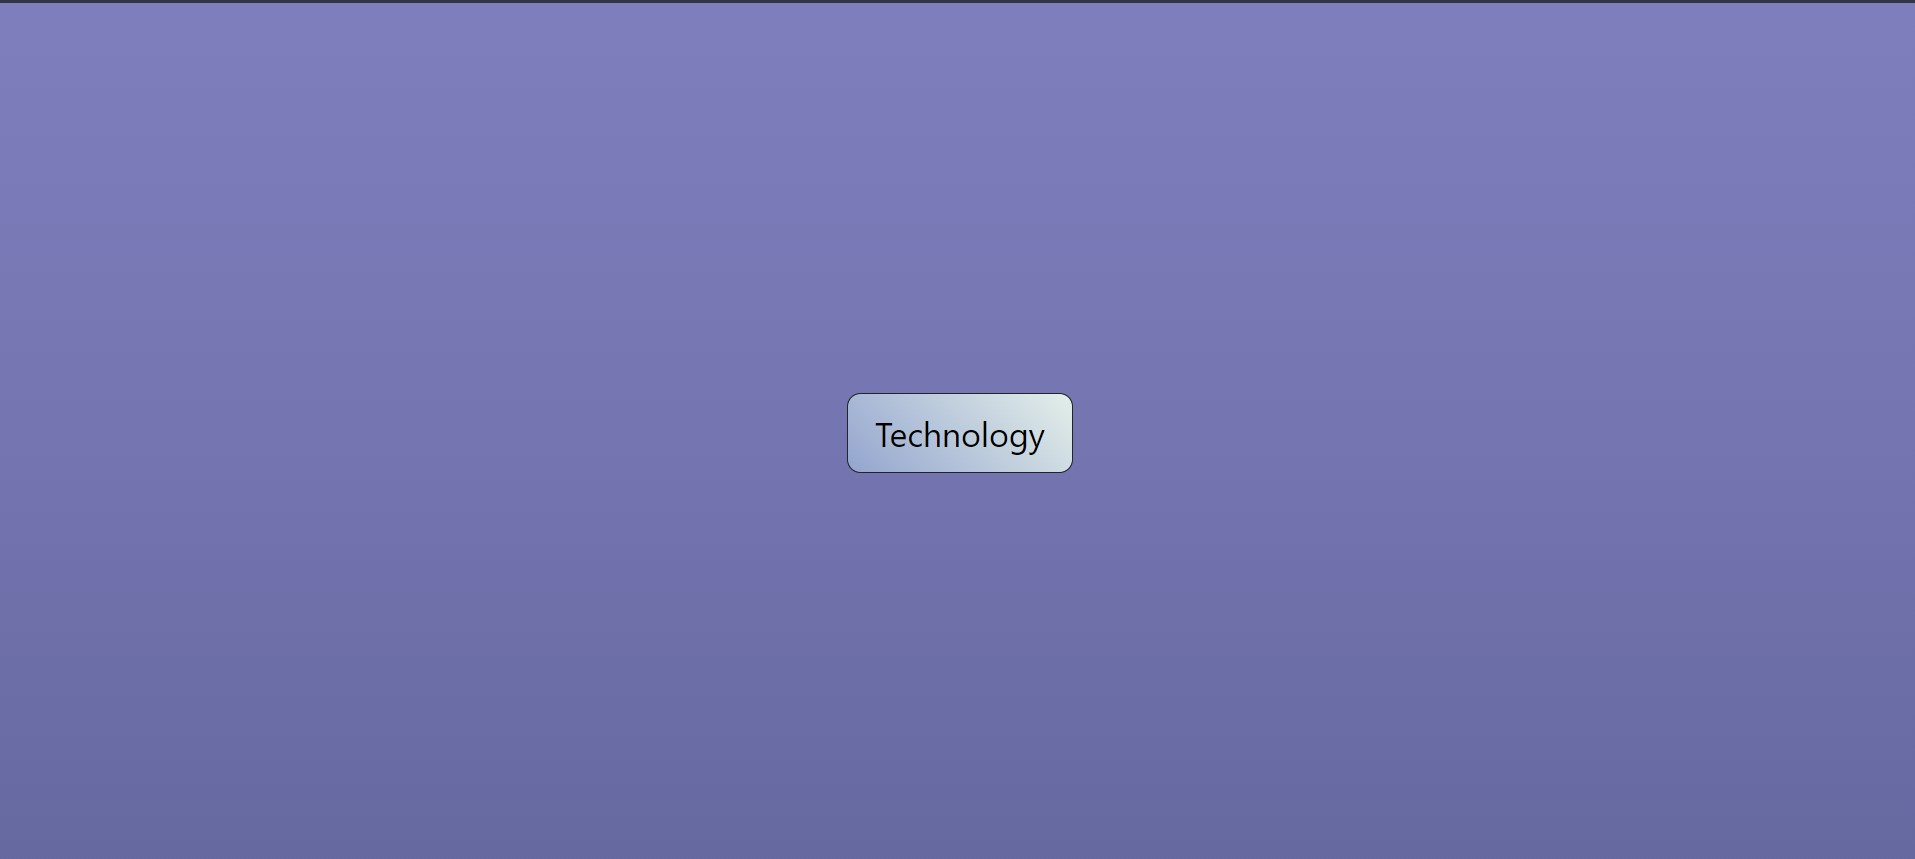
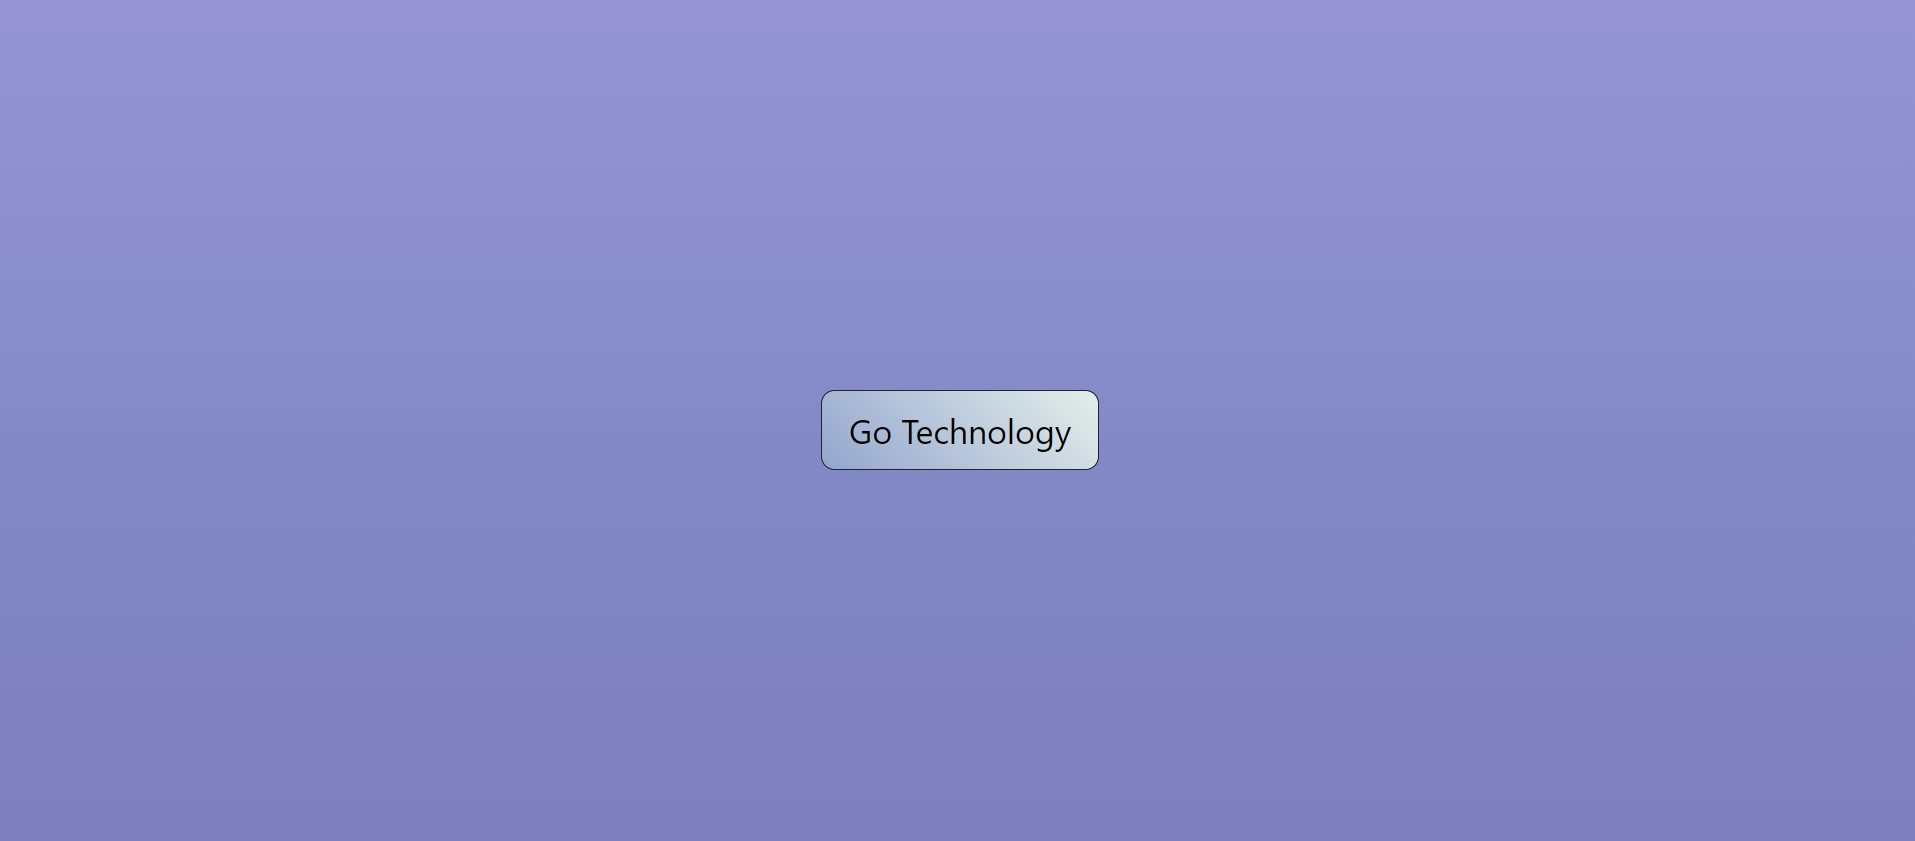
Massive Retouching

diff --git a/templates/techfeed-all.html b/templates/techfeed-all.html
@@ -15,12 +15,8 @@
 	</head>
 	<body>
 		<div class="container">
-			<div
-				class="provider d-flex align-items-center justify-content-center"
-			>
-				{{provider}}
-			</div>
-			{%for item in mainContent%}
+			{%for content in mainContent%}
+				{%for item in content%}
 			<div class="card border-dark" style="margin: 10px">
 				<div class="card-body">
 					<div class="card-title text-dark">{{item.title}}</div>
@@ -28,7 +24,6 @@
 						{%if 'author' in item%} {{item.author.name | safe}} {%
 						else %}{{item['dc:creator'] | safe}} {% endif %}
 					</div>
-
 					<input
 						type="button"
 						class="btn btn-primary card-link"
@@ -37,48 +32,10 @@
 					/>
 				</div>
 			</div>
+				{%endfor%}
 			{%endfor%}
 		</div>
-		<!-- <div class="container">
-			{%for item in vergeContent%}
-			<div class="card border-dark" style="margin: 10px">
-				<div class="card-header">Verge</div>
-				<div class="card-body">
-					<div class="card-title text-dark">{{item.title}}</div>
-					<div class="card-subtitle mb-2 text-muted">
-						{{item.author.name}}
-					</div>
-
-					<input
-						type="button"
-						class="btn btn-primary card-link"
-						value="Explore More"
-						onclick="document.location='{{item.id | safe}}'"
-					/>
-				</div>
-			</div>
-			{%endfor%}
 		</div>
-		<div class="container">
-			{%for item in wiredContent%}
-			<div class="card border-dark" style="margin: 10px">
-				<div class="card-header">Wired</div>
-				<div class="card-body">
-					<div class="card-title text-dark">{{item.title}}</div>
-					<div class="card-subtitle mb-2 text-muted">
-						{{item['dc:creator']}}
-					</div>
-
-					<input
-						type="button"
-						class="btn btn-primary card-link"
-						value="Explore More"
-						onclick="document.location='{{item.link | safe}}'"
-					/>
-				</div>
-			</div>
-			{%endfor%}
-		</div> -->
 		<script
 			src="https://cdn.jsdelivr.net/npm/bootstrap@5.2.2/dist/js/bootstrap.bundle.min.js"
 			integrity="sha384-OERcA2EqjJCMA+/3y+gxIOqMEjwtxJY7qPCqsdltbNJuaOe923+mo//f6V8Qbsw3"

diff --git a/static/styles/techhome.css b/static/styles/techhome.css
@@ -9,52 +9,41 @@
     scroll-behavior: smooth;
 }
 body {
-    background: linear-gradient(230deg, #30cfd0, #330867);
+  background-image: linear-gradient(-162deg, #30cfd0 0%, #330867 100%);
     background-size: 400% 400%;
     font-family: 'Montserrat', sans-serif;
-    -webkit-animation: AnimationName 4s ease infinite;
-    -moz-animation: AnimationName 4s ease infinite;
-    animation: AnimationName 4s ease infinite;
+    -webkit-animation: Mover 10s ease infinite;
+    -moz-animation: Mover 10s ease infinite;
+    animation: Mover 10s ease infinite;
 }
 
-@-webkit-keyframes AnimationName {
+@-webkit-keyframes Mover {
     0%{background-position:0% 87%}
     50%{background-position:100% 14%}
     100%{background-position:0% 87%}
 }
-@-moz-keyframes AnimationName {
+@-moz-keyframes Mover {
     0%{background-position:0% 87%}
     50%{background-position:100% 14%}
     100%{background-position:0% 87%}
 }
-@keyframes AnimationName {
+@keyframes Mover {
     0%{background-position:0% 87%}
     50%{background-position:100% 14%}
     100%{background-position:0% 87%}
 }
 
-.card{
-    background-image: linear-gradient(-167deg, #ebc0fd 0%, #d9ded8 100%);
-}
 .btn{
-    background-image: linear-gradient(to top, #96fbc4 0%, #f9f586 100%);
-    color: black;
+  background-image: linear-gradient(to top, #96fbc4 0%, #f9f586 100%);
+  color: black;
+  padding: auto;
+  margin: 10%;
 }
-.card:hover{
-    z-index: 10;
+.branding{
+  font-size: xx-large;
+  color: white;
+  font-weight: bolder;
 }
-.btn:hover{
-    color: black;
-    scale: 1.2;
-}
-
-.provider{
-    font-size: xx-large;
-    font-weight: bold;
-    text-align: center;
-    color: white;
-}
-
 /* width */
 ::-webkit-scrollbar {
     width: 10px;
@@ -74,7 +63,3 @@ body {
   ::-webkit-scrollbar-thumb:hover {
     background: #555;
   }
-
-.card-subtitle{
-    font-family: 'Playfair Display', serif;
-}

diff --git a/templates/techfeed-home.html b/templates/techfeed-home.html
@@ -4,22 +4,36 @@
 		<meta charset="UTF-8" />
 		<meta http-equiv="X-UA-Compatible" content="IE=edge" />
 		<meta name="viewport" content="width=device-width, initial-scale=1.0" />
-		<title>Home | TechFeeds</title>
+		<title>Technology - Home | TechFeeds</title>
 		<link
 			href="https://cdn.jsdelivr.net/npm/bootstrap@5.2.2/dist/css/bootstrap.min.css"
 			rel="stylesheet"
 			integrity="sha384-Zenh87qX5JnK2Jl0vWa8Ck2rdkQ2Bzep5IDxbcnCeuOxjzrPF/et3URy9Bv1WTRi"
 			crossorigin="anonymous"
 		/>
-		<link rel="stylesheet" href="../static/styles/index.css" />
+		<link rel="stylesheet" href="../static/styles/techhome.css" />
 	</head>
 	<body>
+		<div
+			class="branding text d-flex align-items-center justify-content-center"
+		>
+			TechFeeds
+		</div>
+		<div class="text d-flex align-items-center justify-content-center">
+			One Stop Destination For All Your TechFeeds
+		</div>
 		<div class="d-flex align-items-center justify-content-center vh-100">
 			<button
-				class="btn btn-dark btn-lg"
-				onclick="document.location='/technology'"
+				onclick="document.location='/technology/Tech-Crunch'"
+				class="btn"
 			>
-				Go Technology
+				Go TechCrunch
+			</button>
+			<button onclick="document.location='/technology/Verge'" class="btn">
+				Go Verge
+			</button>
+			<button onclick="document.location='/technology/Wired'" class="btn">
+				Go Wired
 			</button>
 		</div>
 		<script

diff --git a/static/styles/index.css b/static/styles/index.css
@@ -3,6 +3,7 @@
     padding: 0;
     box-sizing: border-box;
     font-size: large;
+    scroll-behavior: smooth;
 }
 
 /* width */

diff --git a/server.py b/server.py
@@ -1,3 +1,7 @@
+
+
+import random
+
 import requests
 from flask import Flask, render_template
 
@@ -5,9 +9,11 @@ from parsers import techcrunch, verge, wired
 
 app = Flask(__name__)
 
-vergeContent = None
-techcrunchContent = None
-wiredContent = None
+store = {
+    'Verge': None,
+    'Tech-Crunch': None,
+    'Wired': None
+}
 
 
 @app.route("/", methods=["GET"])
@@ -17,23 +23,46 @@ def index():
 
 @app.before_first_request
 def runParsers():
-    global vergeContent, techcrunchContent, wiredContent
+    global store
     try:
         vergeContent = verge.parse()
         techcrunchContent = techcrunch.parse()
         wiredContent = wired.parse()
+        store['Tech-Crunch'] = techcrunchContent
+        store['Verge'] = vergeContent
+        store['Wired'] = wiredContent
     except requests.exceptions.ConnectionError as e:
         print("Connection Error")
         print(e)
 
 
-@app.route("/technology", methods=["GET"])
-def techfeed():
+@app.route("/technology", methods=['GET'])
+def technology():
+    # provider = choice(list(store.keys()))
     return render_template(
-        "techfeed.html",
-        vergeContent=vergeContent,
-        techcrunchContent=techcrunchContent,
-        wiredContent=wiredContent
+        "techfeed-home.html",
+    )
+
+
+@app.route("/technology/<provider>", methods=["GET"])
+def techfeedforProvider(provider: str):
+    # provider = provider.capitalize()
+    if provider in store:
+        return render_template(
+            "techfeed.html",
+            mainContent=store[provider],
+            provider=provider
+        )
+
+
+@app.route("/technology/all", methods=["GET"])
+def techfeedforAll():
+    allProviders = list(store.values())
+    allProviders = random.shuffle(allProviders)
+    # print(allProviders)
+    return render_template(
+        "techfeed-all.html",
+        mainContent=allProviders
     )
 
 

diff --git a/readme.md b/readme.md
@@ -1,4 +1,4 @@
-# TechFeeds (UNDER CONSTRUCTION)
+# TechFeeds
 An online minimal tech news aggregator to keep you updated on all the latest happenings in tech world.
 
 Supports
@@ -6,6 +6,9 @@ Supports
 - Verge
 - Wired
 
+Choose from the exclusive providers or go random!
+
 Screenshots
 ![1](screenshots/1.jpg)
 ![2](screenshots/2.jpg)
+![2](screenshots/3.jpg)
